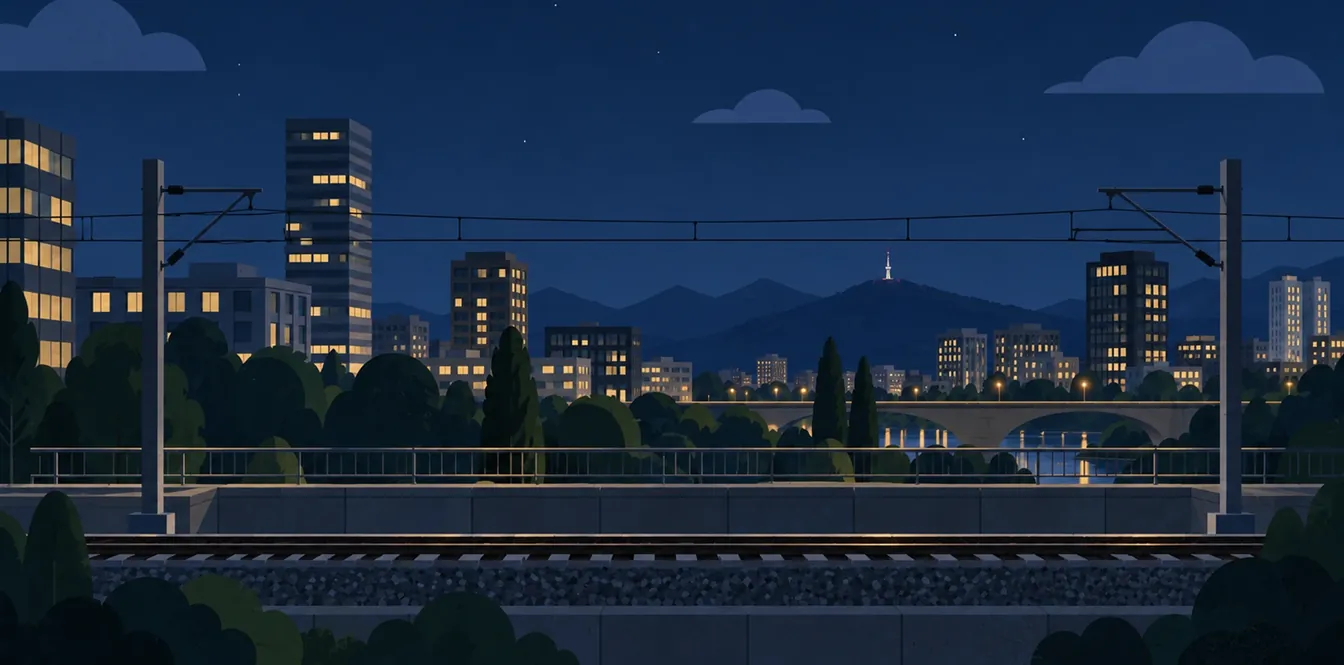
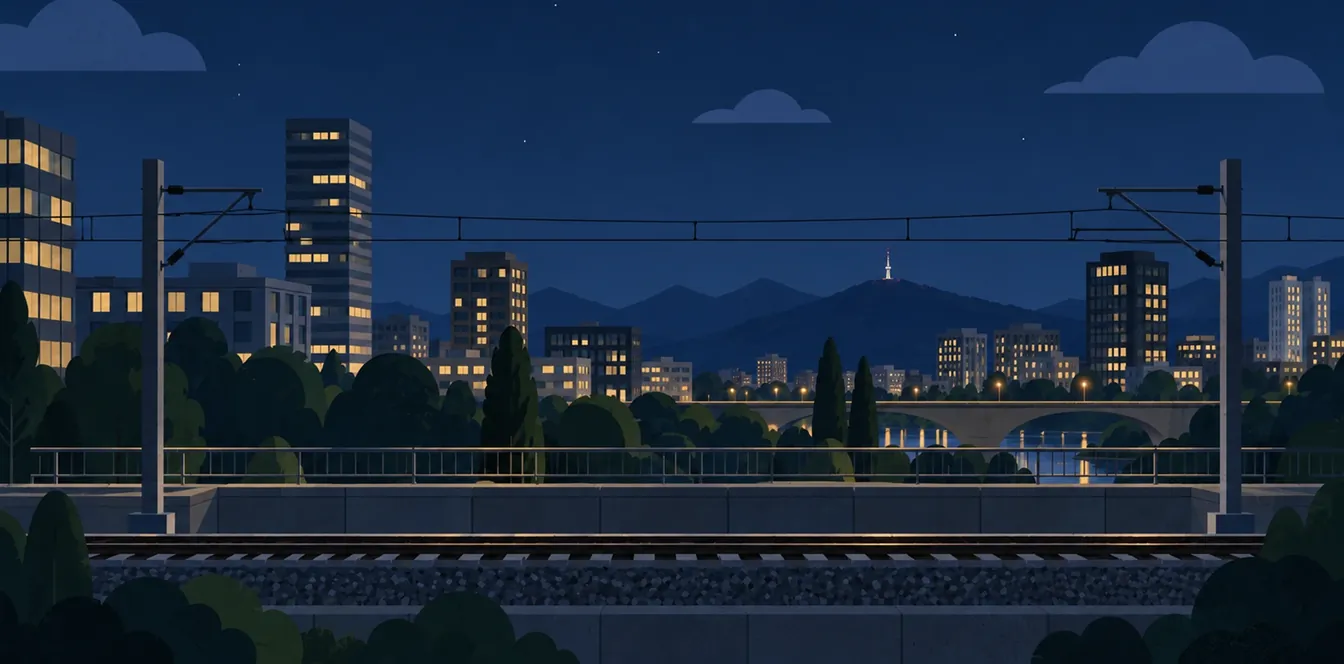
Auftaktbild für die Tunnel, alle Bilder gleich gross
Die Übersicht der Tunnel zeigt ein eigenes Bild von Veikko, am Tag und in
der Nacht. Das Original (16:9) ist oben und unten beschnitten auf 1344 x 664
Pixel, wie das Bahnhofbild; das Linienbild verliert dafür eine Pixelzeile.
So bleibt der Kopf beim Wechsel der Reiter gleich hoch.

diff --git a/app/src/komponenten/Kopf.tsx b/app/src/komponenten/Kopf.tsx
@@ -2,6 +2,8 @@ import auftaktDunkel from '../assets/auftakt-dunkel.webp'
 import auftaktHell from '../assets/auftakt-hell.webp'
 import linienDunkel from '../assets/auftakt-linien-dunkel.webp'
 import linienHell from '../assets/auftakt-linien-hell.webp'
+import tunnelDunkel from '../assets/auftakt-tunnel-dunkel.webp'
+import tunnelHell from '../assets/auftakt-tunnel-hell.webp'
 import { Auftakt, type AuftaktBild } from './Auftakt'
 
 export type Bereich = 'bahnhoefe' | 'linien' | 'tunnel' | 'bruecken' | 'duell'
@@ -22,8 +24,12 @@ const BILDER: Partial<Record<Bereich, AuftaktBild>> = {
     alt: 'Illustration: Am Perron steigen Menschen aus einem Zug aus, andere warten aufs Einsteigen.',
   },
   linien: {
-    hell: linienHell, dunkel: linienDunkel, breite: 1344, hoehe: 665,
+    hell: linienHell, dunkel: linienDunkel, breite: 1344, hoehe: 664,
     alt: 'Illustration: Ein Gleis mit Fahrleitung, dahinter eine Stadt, eine Brücke über einen Fluss und Berge.',
+  },
+  tunnel: {
+    hell: tunnelHell, dunkel: tunnelDunkel, breite: 1344, hoehe: 664,
+    alt: 'Illustration: Ein Gleis führt in ein Tunnelportal im Fels, links Wasser mit einer Brücke, eine Stadt und Berge.',
   },
 }
 
